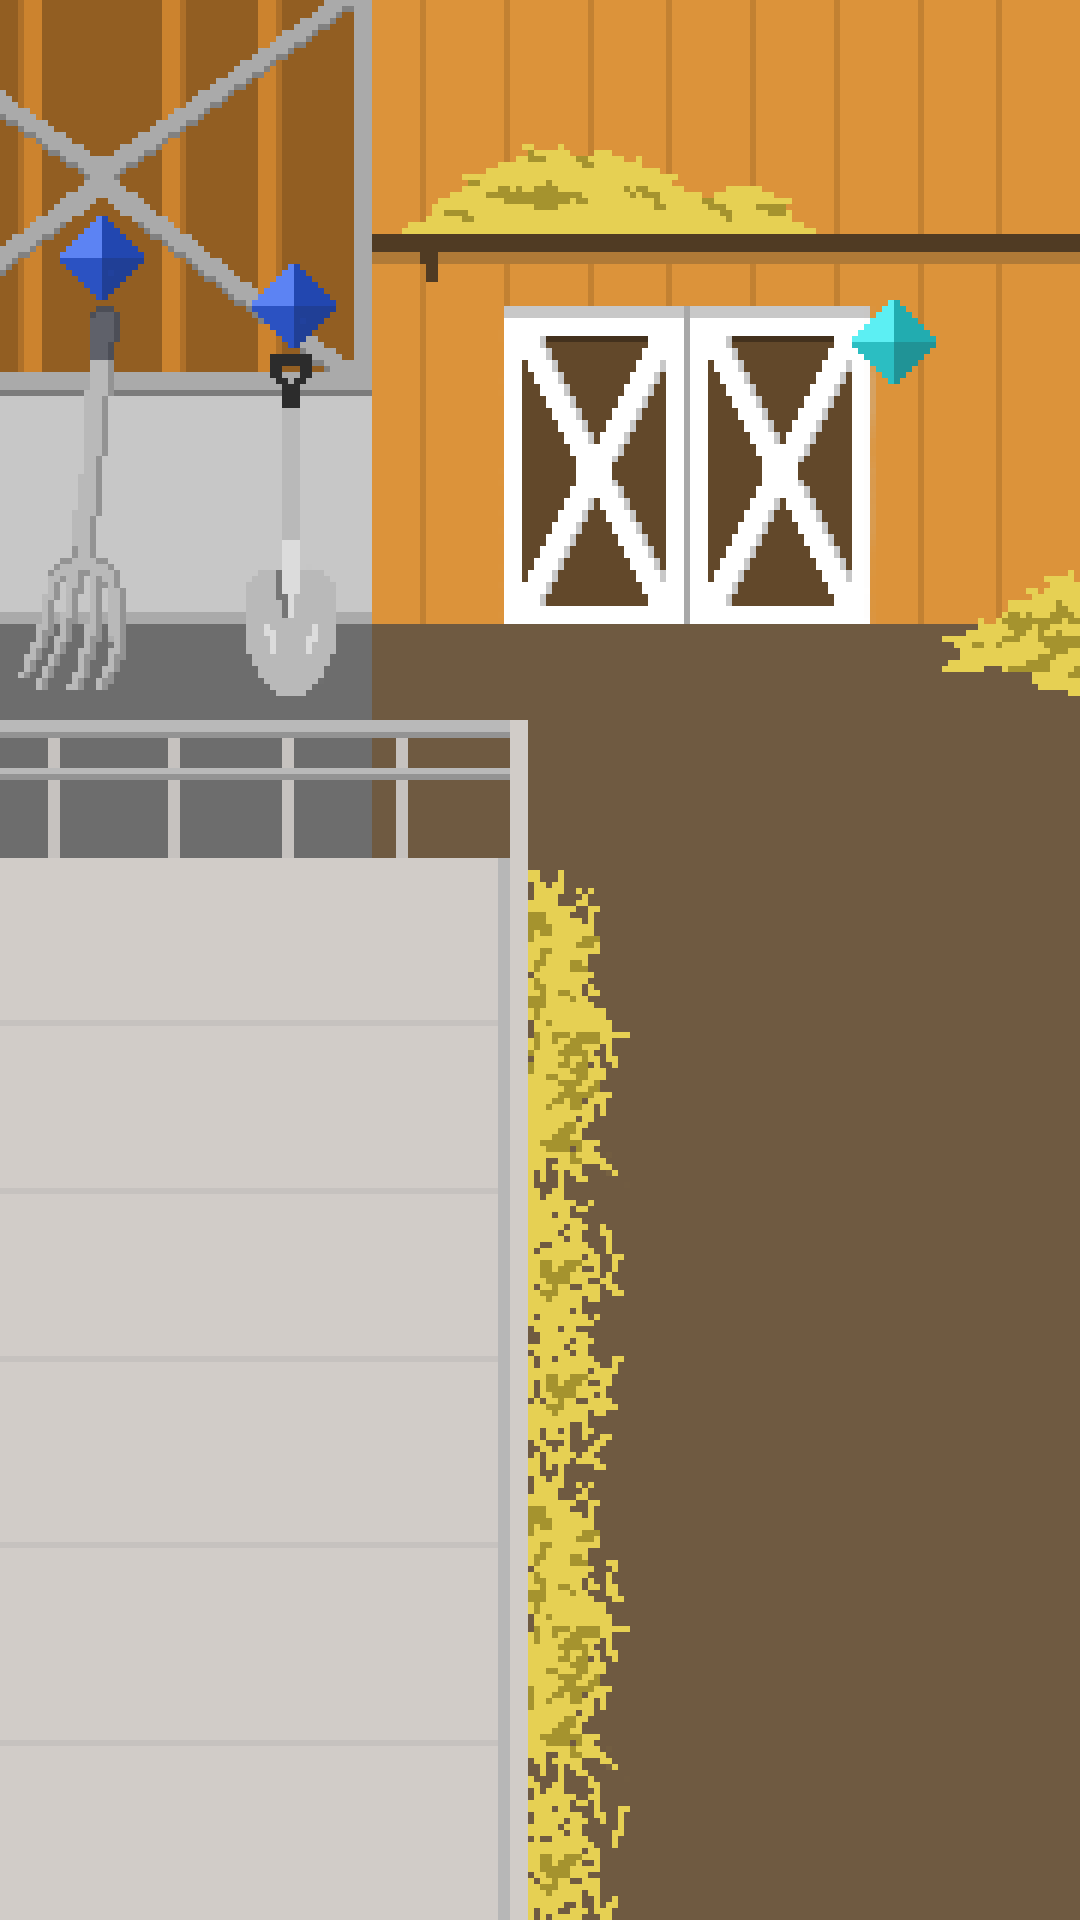
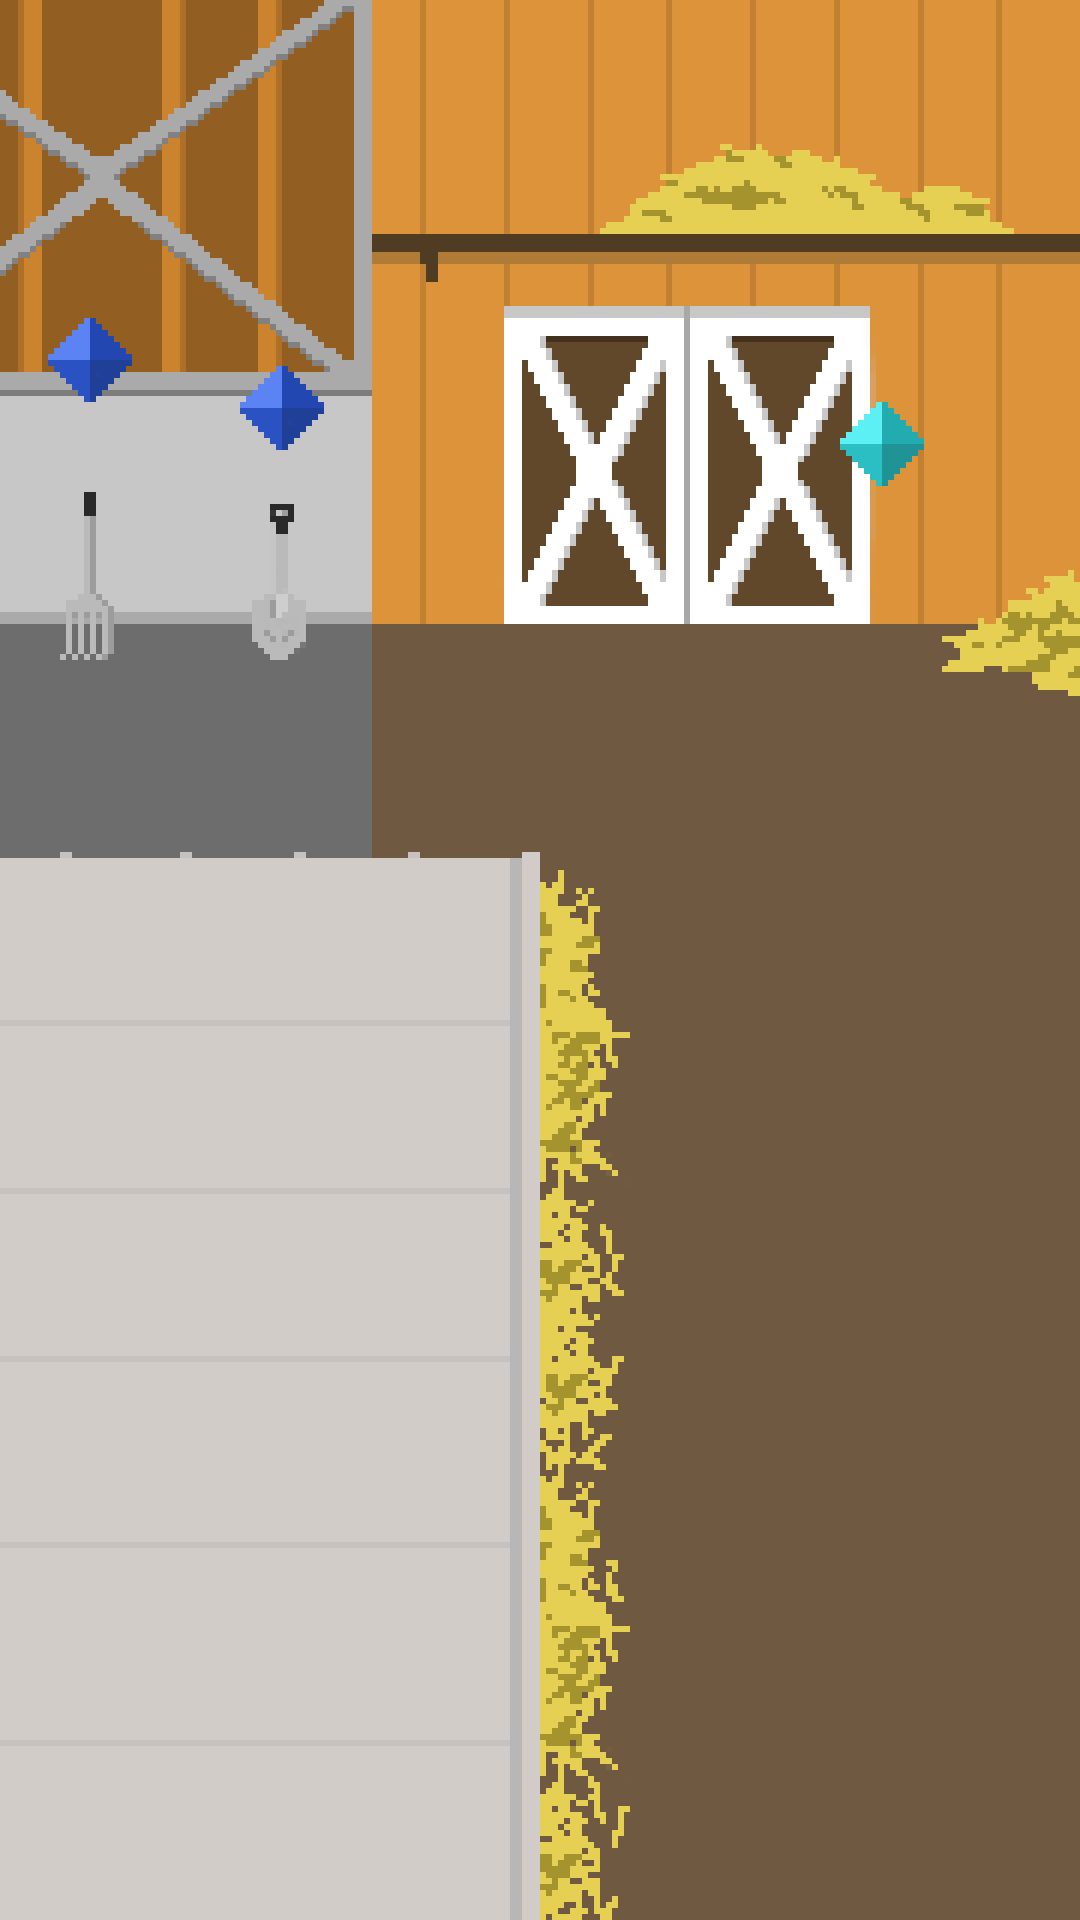
Added background/foreground to home Added background/foreground to barn Updated textures Added new textures Changed size for new manure texture render Cleaned up code.

diff --git a/core/src/fi/tuni/tiko/BarnScreen.java b/core/src/fi/tuni/tiko/BarnScreen.java
@@ -31,7 +31,6 @@ public class BarnScreen extends Location implements Screen {
     Texture cowBrown3 = new Texture("cowBrown3.png");
     Texture manure = new Texture("manure.png");
     Texture hay = new Texture("hay.png");
-    Texture barnFence = new Texture("barnFence.png");
     Rectangle spawn;
     float cowSize = 150f;
     float[] manureX = {0.9f, 1.4f, 1f, 1.5f, 0.8f, 1.24f, 1.3f, 1f, 1.7f, 1.2f, 1.4f};
@@ -40,7 +39,7 @@ public class BarnScreen extends Location implements Screen {
     float[] hayY = {8f, 7.1f, 6.1f, 5.4f, 4.5f, 4.1f, 3.4f, 2.5f, 1.9f, 1.2f, 0.9f};
 
     public BarnScreen(SpriteBatch batch, OrthographicCamera camera, GasChaosMain game) {
-        background = new Texture("Barn.png");
+        background = new Texture("barnForeground.png");
         camera.setToOrtho(false, WORLD_WIDTH, WORLD_HEIGHT);
         this.batch = batch;
         this.camera = camera;
@@ -81,6 +80,7 @@ public class BarnScreen extends Location implements Screen {
         batch.begin();
         haySpawn(game.gameData.getFeedInBarn());
         player.draw(batch);
+        batch.draw(background, 0,0, WORLD_WIDTH, WORLD_HEIGHT);
         cowSpawn(game.gameData.getCowAmount());
         manureSpawn(game.gameData.getManureInBarn());
         black.draw(batch, blackness);
@@ -109,7 +109,7 @@ public class BarnScreen extends Location implements Screen {
                         userInterface.dialogFocus = false;
                         resetInputProcessor();
                         remove();
-                    };
+                    }
                 }
             };
             userInterface.createDialog(d, uiText, true);
@@ -130,7 +130,7 @@ public class BarnScreen extends Location implements Screen {
                         userInterface.dialogFocus = false;
                         resetInputProcessor();
                         remove();
-                    };
+                    }
                 }
             };
             userInterface.createDialog(d, uiText, true);
@@ -151,7 +151,7 @@ public class BarnScreen extends Location implements Screen {
                         userInterface.dialogFocus = false;
                         resetInputProcessor();
                         remove();
-                    };
+                    }
                 }
             };
             userInterface.createDialog(d, uiText, true);
@@ -411,7 +411,7 @@ public class BarnScreen extends Location implements Screen {
     public boolean getRec(String name) {
         Rectangle r = getCheckRectangle((MapLayer)tiledMap.getLayers().get(name));
         boolean action = playerAction(r);
-        if (player.getRectangle().overlaps(r)  && action == true) {
+        if (player.getRectangle().overlaps(r)  && action) {
             return true;
         } else {
             return false;
@@ -464,7 +464,7 @@ public class BarnScreen extends Location implements Screen {
     private void manureSpawn(int manureInBarn) {
         int counter = manureInBarn / (game.gameData.getManureInBarnMax() / 10); // 0..10
         for (int i = 0; i < counter; i++) {
-            batch.draw(manure, manureX[i], manureY[i], 0.8f, 0.4f);
+            batch.draw(manure, manureX[i], manureY[i], 2.0f, 1.0f);
         }
     }
 

diff --git a/core/src/fi/tuni/tiko/HomeScreen.java b/core/src/fi/tuni/tiko/HomeScreen.java
@@ -21,7 +21,7 @@ public class HomeScreen extends Location implements Screen {
     private final GasChaosMain game;
 
     public HomeScreen(SpriteBatch batch, OrthographicCamera camera, GasChaosMain game) {
-        background = new Texture("homeBackground.png");
+        background = new Texture("homeForeground.png");
         camera.setToOrtho(false, WORLD_WIDTH, WORLD_HEIGHT);
         this.game = game;
         this.batch = batch;
@@ -52,7 +52,7 @@ public class HomeScreen extends Location implements Screen {
             player.setInputActive(false);
         }
 
-        if (fadeIn == false) {
+        if (!fadeIn) {
             player.setInputActive(true);
         }
 
@@ -62,8 +62,9 @@ public class HomeScreen extends Location implements Screen {
         player.playerMovement(tiledMap);
 
         batch.begin();
-        black.draw(batch, blackness);
         player.draw(batch);
+        batch.draw(background, 0,0, WORLD_WIDTH, WORLD_HEIGHT);
+        black.draw(batch, blackness);
         batch.end();
 
         userInterface.render(game.gameData);
@@ -119,7 +120,7 @@ public class HomeScreen extends Location implements Screen {
     public boolean getRec(String name) {
         Rectangle r = getCheckRectangle((MapLayer)tiledMap.getLayers().get(name));
         boolean action = playerAction(r);
-        if (player.getRectangle().overlaps(r)  && action == true) {
+        if (player.getRectangle().overlaps(r) && action) {
             return true;
         } else {
             return false;

diff --git a/core/src/fi/tuni/tiko/FarmScreen.java b/core/src/fi/tuni/tiko/FarmScreen.java
@@ -50,7 +50,7 @@ public class FarmScreen extends Location implements Screen {
             player.setInputActive(false);
             fadeFromBlack();
         }
-        if (fadeIn == false) {
+        if (!fadeIn) {
             player.setInputActive(true);
         }
 
@@ -135,7 +135,7 @@ public class FarmScreen extends Location implements Screen {
     public boolean getRec(String name) {
         Rectangle r = getCheckRectangle((MapLayer)tiledMap.getLayers().get(name));
         boolean action = playerAction(r);
-        if (player.getRectangle().overlaps(r)  && action == true) {
+        if (player.getRectangle().overlaps(r) && action == true) {
             return true;
         } else {
             return false;

diff --git a/core/src/fi/tuni/tiko/FieldScreen.java b/core/src/fi/tuni/tiko/FieldScreen.java
@@ -54,7 +54,7 @@ public class FieldScreen extends Location implements Screen {
             player.setInputActive(false);
         }
 
-        if (fadeIn == false) {
+        if (!fadeIn) {
             player.setInputActive(true);
         }
 
@@ -238,7 +238,7 @@ public class FieldScreen extends Location implements Screen {
     public boolean getRec(String name) {
         Rectangle r = getCheckRectangle((MapLayer)tiledMap.getLayers().get(name));
         boolean action = playerAction(r);
-        if (player.getRectangle().overlaps(r)  && action == true) {
+        if (player.getRectangle().overlaps(r) && action) {
             return true;
         } else {
             return false;
